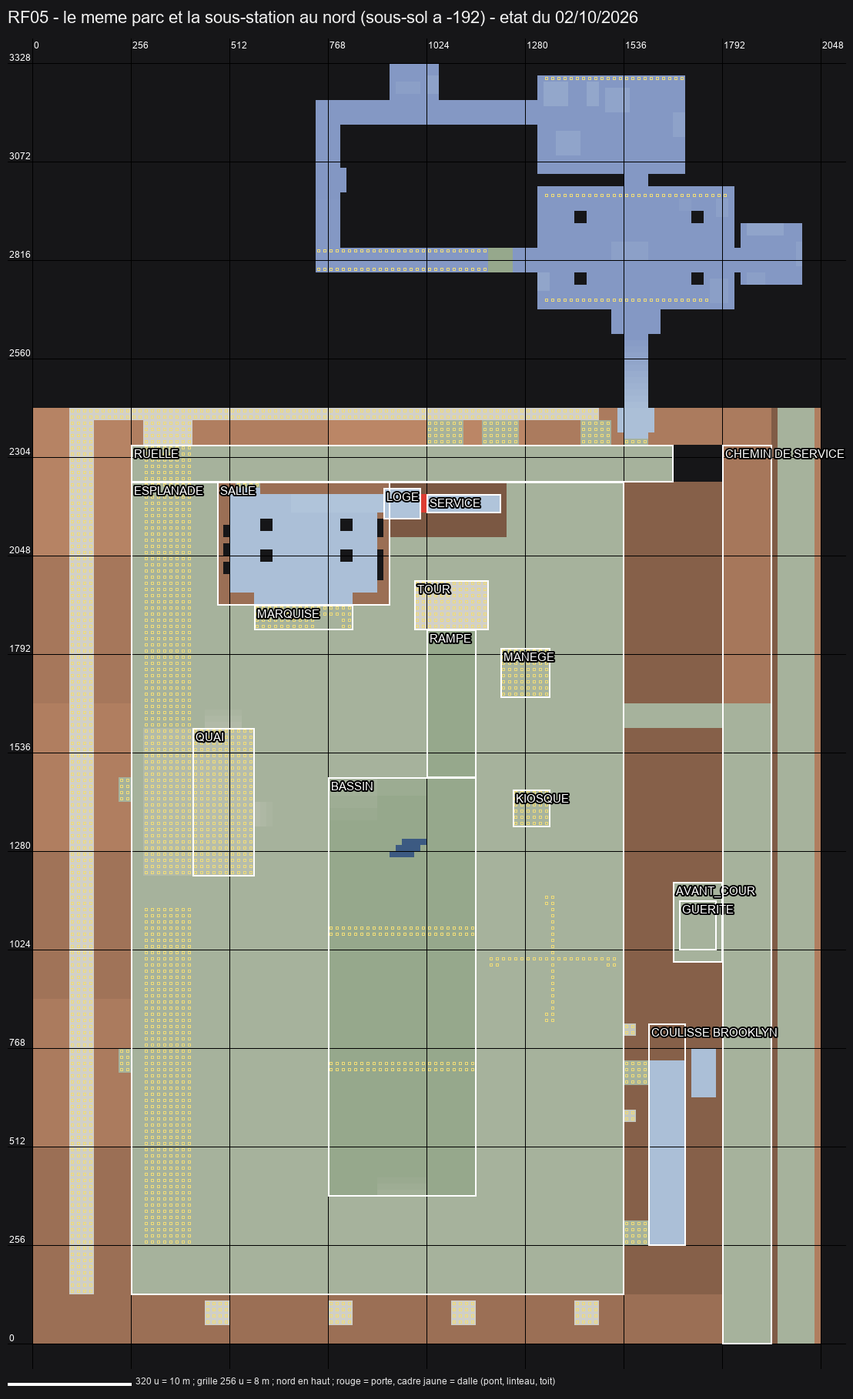
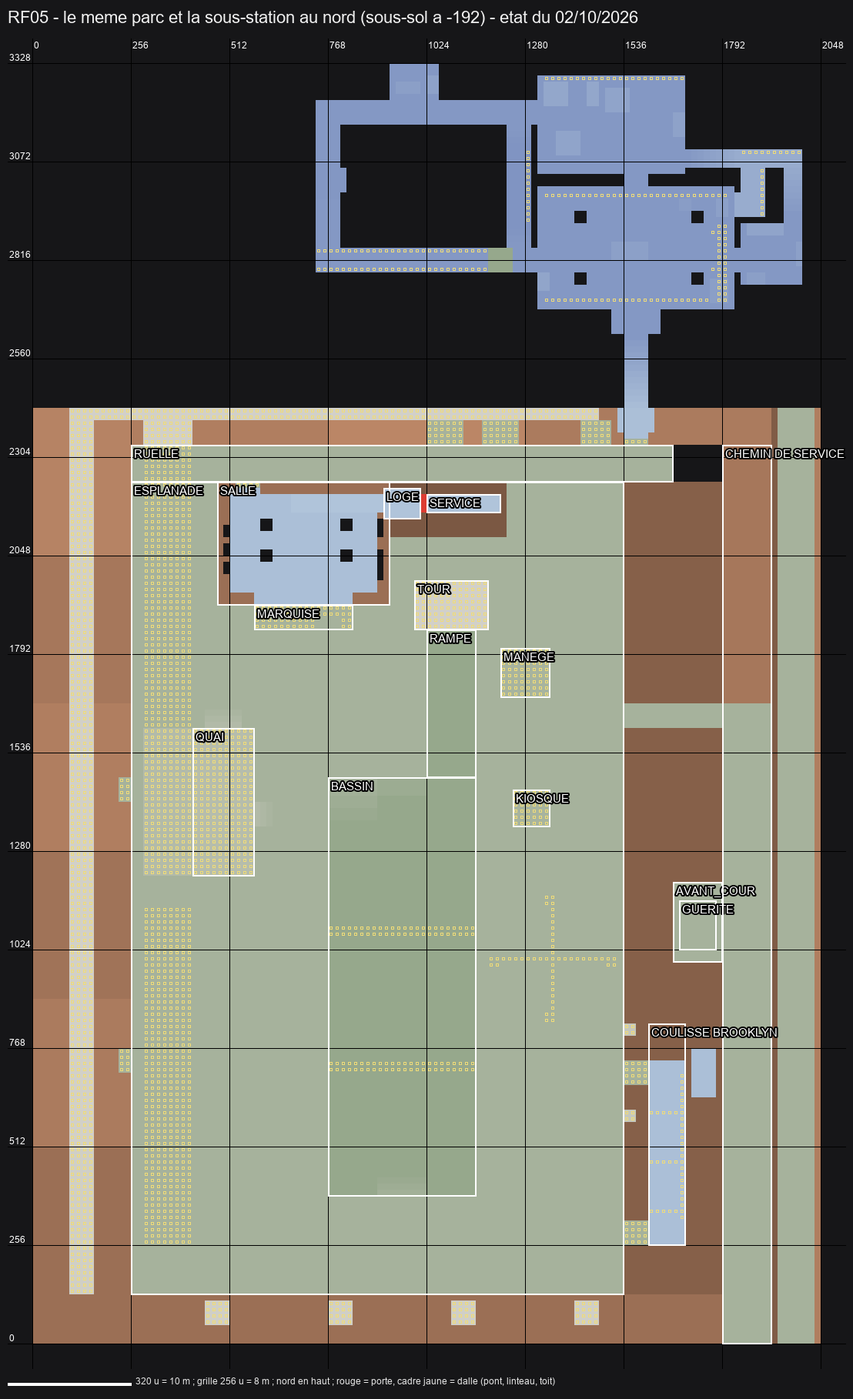
For Astra: plans and sections regenerated with the volumes of 02/10, their table, piers and dials now delivered; the novel's 143 elements reconciled with the build
- PLANS: RF04/RF05/RF06 plans, seven new sections (feeders' gallery, bay, workshop stair, culvert, valve chamber,
  walkways, side loop), the table of added volumes and what each needs drawn, the engine's line-portal limit
- CONTRAT_DECORS_ET_PORTES: dials V03 and the eight piers of the review session in place; the puddle sprites
- ELEMENTS_ROMAN_RAPPROCHEMENT: the pack's matrix against the build (19 present, 31 incomplete, 93 absent, the
  latter outside the maps produced), with a proposal for each P1 gap in RF01-RF07

Changed region(s): [[0.7978, 0.0924, 0.9513, 0.1848], [0.583, 0.0924, 0.6444, 0.1848], [0.4603, 0.5853, 0.491, 0.6161]]

diff --git a/docs/production/handoff/RF2_20261002/ELEMENTS_ROMAN_RAPPROCHEMENT.md b/docs/production/handoff/RF2_20261002/ELEMENTS_ROMAN_RAPPROCHEMENT.md
@@ -1,0 +1,109 @@
+# Éléments du roman — rapprochement avec le build courant (02/10/2026)
+
+Matrice rapprochée : `ELEMENTS_ROMAN.csv` du pack `RF2_ASTRA_ART_MASSIF_20261002` (143 lignes). Build lu : branche `prod/rf2-campaign`, commit `f43d3fce` (même contenu de jeu que `61d9b431` : les deux commits suivants n'ajoutent que des documents et des scripts de production) : sources des cartes (`scripts/mapkit/*.py`), cartes construites (`src/maps/RF0x.wad`), textes (`src/LANGUAGE`), scènes (`src/zscript/rf/*.zs`). Détail ligne par ligne : `ELEMENTS_ROMAN_RAPPROCHEMENT.csv`, dans ce dossier.
+
+**Lecture seule : rien n'a été lancé dans le moteur.** Les statuts viennent des sources et du contenu des cartes construites, pas d'une traversée. Une ressource dessinée par l'intégrateur en attendant celle d'Astra ou de Codex compte comme `INCOMPLET` (la scène fonctionne, l'art reste à livrer).
+
+**Numéros de ligne : ceux du commit `f43d3fce`** (161 références contrôlées contre ce commit). L'arbre de travail bougeait pendant la lecture (flaques passées en images à plat, pochoir 404 déplacé : `luna_park.py`, `rf05.py`, `rf06.py`, `luna.zs`, `materials_rf04.py`, `MAPINFO`, non commités) ; ces modifications décalent quelques lignes de ces six fichiers et ne changent aucun statut.
+
+## Comptes
+
+| Périmètre | PRESENT | INCOMPLET | ABSENT | Total |
+|---|---:|---:|---:|---:|
+| **Les 143 lignes** | **19** | **31** | **93** | **143** |
+| RF01 | 0 | 5 | 2 | 7 |
+| RF02 | 8 | 5 | 0 | 13 |
+| RF04 | 6 | 4 | 0 | 10 |
+| RF05 | 3 | 10 | 0 | 13 |
+| RF06 | 2 | 3 | 0 | 5 |
+| Jerma (RF07-RF12) | 0 | 4 | 16 | 20 |
+| Lieux ultérieurs | 0 | 0 | 75 | 75 |
+| dont priorité P1 (91 lignes) | 16 | 24 | 51 | 91 |
+| dont cartes produites, RF01 à RF07 (52 lignes) | 19 | 31 | 2 | 52 |
+
+Rattachement des lignes à un lieu : une ligne à plusieurs lieux (`RF01/RF04`, `RF02/RF05`…) est comptée au premier ; « Jerma » regroupe EL049 à EL068, dont seules EL049 à EL052 tombent dans RF07 (roman P00612 à P00627), les seize autres dans RF08 à RF12, non produites ; « lieux ultérieurs » = EL069 à EL143, y compris les lignes documentaires sur le Jerma et `RF01/fin` (EL143, dernier état de Sainte-Anne, après RF23).
+
+## P1 incomplets ou absents dans les cartes produites, avec la proposition
+
+24 lignes. Les propositions respectent les décisions en vigueur : RF06 et le Jerma sans combat ; Elvis, le gardien, la jeune femme et les couples jamais des cibles ; aucune musique nouvelle ; rien d'expliqué que le roman laisse ouvert. Pour RF01 (carte acceptée), elles reprennent le lot borné de `CANON_FIDELITE.md` §7 et attendent un accord.
+
+### RF01
+
+- **EL002 — Montre arrêtée et changement 6h20/6h06** (INCOMPLET, lot V01). Manque : La montre comme objet : remise à Sainte-Anne (RF01), portée, montrée arrêtée à 6 h 20 puis à 6 h 06 au pointage ; aucun cadran, aucune icône de HUD avant RF07.
+  Proposition : RF01 : la montre arrêtée posée avec les autres effets rendus sur la table de la chambre de départ (scripts/mapkit/rf01.py:259), à ramasser avant de sortir (lot borné déjà proposé en CANON_FIDELITE §7, à faire après accord puisque RF01 est acceptée). RF04 : au moment du pointage, afficher le cadran à l'écran comme la montre de RF07 (jerma.zs:241) : aiguilles à 6 h 20, puis à 6 h 06 quand le carton sort de l'horloge.
+- **EL006 — Flacon brun 117** (INCOMPLET, lot J02). Manque : Le flacon brun à l'étiquette 117 comme objet : remis dans RF01, porté, bu (RF02), donné à la jeune femme puis rendu (RF05) ; aucune image, aucun objet d'inventaire.
+  Proposition : RF01 : le flacon brun (étiquette blanche, 117 à l'encre violette) et le paquet de biscuits posés sur le poste des infirmières du pavillon est (scripts/mapkit/rf01.py:379), à ramasser, avec la ligne « Prenez ça. Pas tout d'un coup. » ; après accord (RF01 acceptée). RF05 : pendant RF_RF05_WOMAN_7, montrer le flacon à l'écran, moins plein quand elle le rend.
+- **EL007 — Carton017 à lettres bleues** (INCOMPLET, lot J02). Manque : La remise à Sainte-Anne (RF01 : rien), le carton montré à l'infirmière, porté dans RF02 (il n'est donné qu'à l'entrée de RF04) ; les états du Jerma (humide, suie, tache de graisse en cercle barré, tombé du matelas) relèvent de RF08, non produite.
+  Proposition : RF01 : le carton LUNA PARK - PERSONNEL TECHNIQUE, 017, parmi les effets rendus sur la table de la chambre de départ (scripts/mapkit/rf01.py:259), ramassé (donne RFTimeCard) ; icône du HUD gardée de RF01 à RF04 (lever la condition « RF04 » de hud.zs:336) ; après accord (RF01 acceptée). Rien à ajouter dans RF07 : la chute du carton est dans RF08.
+
+### RF02
+
+- **EL013 — Enveloppe de Cochin** (INCOMPLET, lot F01). Manque : RF02 : la scène (« Monsieur Ardent, vos résultats. » … « Gardez-les. » … « Quand vous saurez, revenez. »), l'adresse à moitié masquée par le pouce. RF05 : l'enveloppe définitive (fenêtre, typographie, adresse lisible) ; la main qui la tient manque puisque la jeune femme n'a pas de figure.
+  Proposition : RF02 : une ligne de marche sur le boulevard de Port-Royal à hauteur du portail (x 1216) lance l'échange en sous-titres comme les autres scènes de RFParis ; la femme reste devant le portail, l'enveloppe ne se ramasse pas ; la vague E3 (rf02.py:384-385) ne se réveille qu'après la dernière réplique. RF05 : remplacer R5ENA0 par l'enveloppe d'Astra et la rendre lisible (LIRE) sur l'établi : nom derrière la fenêtre, Waukegan, Illinois, 117 ; elle reste non ouverte.
+- **EL014 — Amiga au reflet puis Ducretet** (INCOMPLET, lot R01). Manque : Le maître d'Astra de l'Amiga 1200 pour le reflet ; le poste Ducretet couvert de poussière qui « lui renvoie son visage » à l'approche (la vitrine finale montre des postes génériques, sans Ducretet ni reflet).
+  Proposition : Garder le déclenchement actuel. Remplacer RF2_AMIG par l'image composée depuis le maître d'Astra, et ajouter à l'état final de la vitrine un Ducretet poussiéreux à l'emplacement exact où le boîtier gris apparaissait, pour que le joueur voie l'un céder à l'autre en s'approchant.
+
+### RF04
+
+- **EL021 — Gardien avec registre puis guérite vide** (INCOMPLET, lot F01). Manque : La figure définitive du gardien (casquette, moustache blanche, registre sur les genoux, doigt noir de graisse) ; le registre resté sur la chaise, ouvert à une page blanche, n'existe que dans le texte.
+  Proposition : Même place et même scène. Remplacer R4G1 par la figure d'Astra (assis, parle, tend la main, désigne le crochet). Après sa disparition, laisser dans la guérite, visible par la vitre depuis le chemin, la chaise et le registre ouvert sur une page blanche (objet fixe, sans interaction). Le gardien n'est jamais une cible.
+- **EL028 — Tourniquet 617/618** (INCOMPLET, lot A03). Manque : RF05 : scripts/mapkit/rf05.py ne repose ni les tourniquets ni le compteur (aucun RF4_TOUR ni RF4_C618 dans src/maps/RF05.wad) ; le joueur qui sort de la salle de danse par le vestibule ne trouve plus rien à leur place. Les montants (RF4_TOUR) sont un substitut de l'intégrateur.
+  Proposition : RF05 : reposer sous la marquise les trois tourniquets de RF04 (mêmes positions que rf04.py:273-278), la barre levée et le compteur resté à 618 (RF4_C618), sans interaction : le joueur qui repasse voit le chiffre qu'il a laissé.
+- **EL030 — Jukebox muet THE SKY IS EMPTY** (INCOMPLET, lot A03). Manque : L'objet définitif dans ses états (sous la bâche, découvert : vitre fendue, touches jaunies, liste effacée, étiquette lisible).
+  Proposition : Même place, même suite de gestes (retirer la bâche, lire, appuyer : rien, trois coups). Remplacer R4JB par le juke-box d'Astra en deux états, plus un troisième, allumé, pour RF05 (luna_machines.zs:30-34) ; aucune musique nouvelle, le sous-titre reste.
+
+### RF05
+
+- **EL031 — Escalier et ampoule grillagée** (INCOMPLET, lot A02). Manque : L'ampoule et sa grille n'existent pas comme objet : la lumière est un point lumineux sans source visible ; mains courantes et conduites de cuivre ne sont qu'une image plate provisoire.
+  Proposition : Au palier (rf05.py:173-174), poser sur le mur une applique visible : ampoule nue derrière une grille de fil, allumée, à l'endroit du point lumineux actuel ; remplacer RF5_ESCA par les surfaces d'Astra. Le joueur descend, rien à actionner.
+- **EL035 — Levier et ATTENTE gravé** (INCOMPLET, lot A02). Manque : Le levier n'est jamais vu sur ATTENTE : à l'arrivée il est dessiné sur MARCHE, alors que le roman le trouve à la troisième position (« Le levier se trouvait là ») ; pas de troisième image ; bakélite et gravure provisoires.
+  Proposition : Même panneau. Trois images : à l'arrivée, moteur battant, la manette à mi-course sur ATTENTE ; ARRÊT après le premier usage ; MARCHE à la remise en route. Remplacer RF5_LEVM/RF5_LEVA par le levier d'Astra ; textes inchangés.
+- **EL036 — Jeune femme pieds nus et enveloppe** (INCOMPLET, lot F01). Manque : La jeune femme elle-même : sa descente dans le cercle de l'ampoule, pieds nus et noirs de poussière, le talon blessé, assise sur la caisse, la main sur le mur ; la scène de soin n'est pas visible.
+  Proposition : Sous-station, après ARRÊT : la figure d'Astra (la même personne que F02-07 de RF02, sans valise, pieds nus) apparaît en haut de l'escalier dans le cercle de l'ampoule, descend, s'assoit sur la caisse (rf05.py:202), examine son talon, remonte et pose la main sur le mur du palier. Figure sans collision, jamais une cible ; la vague des galeries reste retenue jusqu'à son départ (déjà le cas, luna_machines.zs:354-361).
+- **EL038 — Graisse, clé17 et fibre synthétique** (INCOMPLET, lot A02). Manque : Aucun de ces objets n'est visible : ni chiffons, burette et clé de 17 dans le tiroir, ni graisse durcie, ni fragment de fibre rouge au fond du palier ; les pièces portées n'apparaissent pas dans le HUD.
+  Proposition : Atelier : un tiroir ouvert montrant chiffons, burette et clé plate de 17 (objet fixe, vidé après usage). Moteur : au nettoyage, le capot du palier ouvert et, dans la graisse noire, le fragment rouge à regarder de près (LIRE) avant de l'ôter. L'action reste la même : trouver, revenir, nettoyer.
+- **EL039 — Toile et agrafes cuivre sur courroie** (INCOMPLET, lot A02). Manque : La courroie renforcée n'a pas d'image propre : la roue et sa courroie sont les mêmes avant et après (RF5_ROU0/ROU1, RF5_ROUS à l'arrêt, avec la seule réparation ancienne) ; ni la fente, ni la bande de toile agrafée ne se voient ; la toile et les agrafes ne sont pas visibles dans la caisse.
+  Proposition : Galerie nord : la caisse ouverte avec la bande de toile et les agrafes de cuivre visibles. Sous-station : après la réparation, la roue passe à une variante de RF5_ROU (arrêtée et en marche) où la courroie porte la bande de toile et ses agrafes de cuivre ; à l'arrêt avant réparation, une variante où la fente à mi-largeur se voit.
+- **EL040 — Fusible JERMA daté 22.12.2022** (INCOMPLET, lot A02). Manque : Le fusible définitif : la date 22.12.2022 ne se lit que dans le texte, pas sur la porcelaine ; la boîte de rechange n'est pas visible ; tableau provisoire.
+  Proposition : Salle des transformateurs : une boîte de rechange visible où un seul cylindre de porcelaine a la bonne taille ; à l'usage, montrer le fusible de près avec 22.12.2022 imprimé. Tableau : remplacer RF5_FUS0/FUS1 par celui d'Astra, le fusible daté visible une fois inséré dans la ligne JERMA.
+- **EL041 — Lampes retardées et enseignes fragmentées** (INCOMPLET, lot A03). Manque : Les ampoules sont des points lumineux sans globe visible ; une seule enseigne, fixe une fois allumée : les fragments LUNA. PARK. NIAG. BROOK. qui clignotent par morceaux ne sont que dans le sous-titre.
+  Proposition : Parc rallumé : aux quatorze points (rf05.py:299-303), des globes fendus visibles, éteints puis allumés avec leur retard. Quatre enseignes en ampoules qui s'allument par morceaux, chacune à sa place : LUNA et PARK sur les rochers de la ruelle, NIAG au-dessus de la rampe du bassin, BROOK sur la façade du pont ; jamais le nom entier.
+- **EL042 — Train vide de trois voitures** (INCOMPLET, lot A03). Manque : Le train définitif (trois wagonnets, roues, inertie) : aujourd'hui une image plate tournée vers le joueur ; il ne parcourt que la rampe de levage.
+  Proposition : Même trajet au-dessus de la ruelle. Remplacer le panneau R5TRA0 par le train d'Astra (trois voitures rondes à deux places, vides), vu de côté et de dessous ; garder le claquement du frein à chaque passage ; le joueur reste à distance, rien à actionner.
+- **EL043 — Couples uniquement dans les miroirs** (INCOMPLET, lot F01). Manque : Les couples eux-mêmes dans les miroirs : costumes de plusieurs époques, le couple à l'écart près du juke-box, visages hors champ, la femme qui retire une chaussure.
+  Proposition : Salle de danse de RF05 : des couples visibles seulement dans les miroirs (même procédé que le reflet de Viktor, figures.zs:65), placés sur le parquet derrière le joueur pendant la scène d'entrée ; un couple à l'écart près du juke-box, cadré bas, visages hors champ, elle retire une chaussure. Rien dans la salle si le joueur se retourne ; aucune collision, jamais des cibles, aucune musique nouvelle.
+
+### RF06
+
+- **EL045 — 117/404/017 barrés** (INCOMPLET, lot A04). Manque : Les pochoirs définitifs, avec des états distincts (peint, puis barré) et une peinture à l'échelle du mur.
+  Proposition : Mêmes portes, même ordre. Remplacer les trois images par les pochoirs d'Astra, la barre visiblement posée après le chiffre et d'une autre main ; observation de passage, rien à actionner.
+- **EL046 — Langues et ERREUR Ø en variantes** (INCOMPLET, lot A04). Manque : Les ERREUR Ø définitifs ; des graffitis où l'on reconnaisse plusieurs langues (anglais, français, maltais, italien, cyrillique) ; le texte src/LANGUAGE:288 RF_RF06_ERREUR n'est jamais affiché : aucune ligne de la carte ne porte la scène 5 (corridor.zs:101, absent de src/maps/RF06.wad).
+  Proposition : Remplacer RF6_ER1 à RF6_ER5 par les cinq variantes d'Astra aux mêmes places. Dans la salle des peaux, poser sous la peinture soulevée des signatures, dates et initiales en cinq écritures, sans phrase inventée. Ajouter la ligne de marche de la scène 5 au premier ERREUR Ø (rf06.py:182) pour que le texte existant s'affiche ; rien n'est expliqué.
+- **EL047 — Ampoules devant et derrière** (INCOMPLET, lot A04). Manque : L'ampoule nue elle-même (verre, culot, fil) : les lampes sont des points lumineux sans objet visible, on voit la lumière s'allumer et s'éteindre mais pas sa source.
+  Proposition : À chaque point lumineux (rf06.py:193-194), pendre sous le plafond une ampoule nue visible à deux états, allumée et éteinte, commutée par RFCorridor.SetLamp avec sa lumière ; le joueur n'a rien à faire, il voit les ampoules s'éteindre derrière lui.
+
+### RF07
+
+- **EL049 — Terrasse et mer métallique** (INCOMPLET, lot J01). Manque : Les surfaces et objets définitifs : façade maritime, balcons sans vitres, baie cassée, gravats, palmiers, mer « dure, métallique ».
+  Proposition : Garder le plan de la terrasse. Remplacer les huit textures RF7_* par celles d'Astra et les sept palmiers (rf07.py:107-109) par de vrais palmiers pliés par le vent ; la mer garde son horizon (rf07.py:104-105). Le joueur arrive, regarde, rejoint Elvis : sans combat.
+- **EL050 — Elvis attend, guide et aide** (INCOMPLET, lot J02). Manque : La figure définitive d'Elvis (références du propriétaire) et ses gestes : attendre, se retourner, tendre la bouteille, porter. L'aide au-delà du sommier (matelas, photo, eau) est dans RF08-RF09, non produites.
+  Proposition : Même parcours (rf07.py:169-171). Remplacer R7EV par la figure d'Astra : attente près de la baie, marche, tête tournée vers Viktor quand il attend, bras tendu pour la bouteille, prise du sommier. Jamais une cible, aucune collision.
+- **EL051 — Chambre remplaçant le couloir** (INCOMPLET, lot J01). Manque : La chambre définitive : moquette humide, sommier renversé comme objet, un ERREUR Ø propre à ce mur, noir et récent.
+  Proposition : Même pièce, même déclenchement au retournement. Habiller avec les surfaces d'Astra, remplacer le bloc par le sommier renversé, et peindre sur la cloison un ERREUR Ø noir, frais, à hauteur d'épaule, distinct des cinq du couloir. Rien ne dit où est passé le couloir.
+- **EL052 — Sommier déplacé ensemble** (INCOMPLET, lot J02). Manque : Le sommier définitif (métal rouillé, poids) et l'effort à deux : Elvis ne fait aucun geste, l'objet glisse de 40 u d'un coup.
+  Proposition : Même palier. Remplacer R7SB par le sommier d'Astra en deux états (en travers, relevé contre le mur) ; à l'usage, Elvis prend un côté (pose de portage) pendant que le joueur tient l'autre, le sommier pivote, puis « C'est là. ».
+
+Hors de cette liste : les seize lignes du Jerma au-delà de RF07 (EL053 à EL068, dont 13 en P1) sont absentes parce que RF08 à RF12 ne sont pas produites ; leur implantation est déjà découpée dans `docs/production/maps/RF07_RF12_DECOUPAGE.md`.
+
+## Doutes non levés
+
+- **Reflets de Viktor (EL012, EL029), comptés PRESENT.** La matrice les donne « défaut signalé le 01/10 ». Le build contient les sprites de Codex importés ce jour-là (R2F8 V02, R4V2/R4V3 V01), au visage du maître du HUD. Le verdict du propriétaire sur ces images n'est écrit nulle part, et le lot V01 est redemandé à Astra : si ces images ne valent pas « maître actuel », les deux lignes passent à INCOMPLET.
+- **Entrée du Luna Park (EL020), comptée PRESENT.** L'enseigne au U pendant et DÉFINITIVE barré sont dans RF02. RF04 ne montre que le revers des portes, d'un autre dessin (piliers à dômes de Codex contre palissade et grille dans RF02) : l'« entrée commune aux deux cartes » demandée par la matrice n'est pas faite.
+- **Tourniquet (EL028), compté INCOMPLET** alors que la matrice le dit « présent rapporté » : l'action de RF04 est complète, mais RF05 ne repose pas les tourniquets. Si la ligne ne vise que RF04, elle est PRESENT.
+- **Lumières sans source visible (EL031, EL041, EL047), comptées INCOMPLET.** Le comportement du roman est là (cercle de l'ampoule, allumage avec retard, ampoules devant et derrière, y compris après une sauvegarde), mais ce sont des points lumineux sans ampoule dessinée. À juger en jeu : si la lumière seule suffit, ces lignes remontent.
+- **Couloir (EL044, EL048), comptés PRESENT** malgré des conduites faites d'un volume simple et des voix en sous-titres sans son ; l'ouverture sur le jour (RF6_JOUR) est provisoire.
+- **Texte orphelin de RF06.** `RF_RF06_ERREUR` (src/LANGUAGE:288) n'est déclenché par aucune ligne de la carte (scène 5 absente de `scripts/mapkit/rf06.py` et de `src/maps/RF06.wad`) : oubli ou choix, non tranché.
+- **Piscine et matelas vus depuis RF07 (EL062, EL053), comptés ABSENT.** RF07 montre une fosse de béton nu depuis la terrasse et une lueur dans la pièce de sortie ; ni mosaïque, ni slogans, ni matelas.
+- **Origine de quelques images.** Les tables de contrat du 02/10 notent « Opus ou référence antérieure » pour la pointeuse et les compteurs 617/618 ; `scripts/mapkit/materials_rf04.py:39-41` les donne livrés par Astra (tranche 01 du 30/09) : je les ai tenus pour livrés. Les images procédurales de RF02 ne sont pas marquées provisoires (sauf RF2_AMIG) et le pack dit RF02 jugée bonne par le propriétaire le 01/10 (`00_LIRE_DABORD.md`) : leurs éléments sont comptés PRESENT.
+- **Objets portés invisibles.** Ticket, fiche de lecteur, enveloppe, chiffons, toile, fusible et bouteille d'eau sont des objets d'inventaire sans image ni ligne de HUD (seuls les clefs et le carton s'affichent, `src/zscript/rf/hud.zs:316-340`). Je n'en ai pas fait un motif d'INCOMPLET pour les lignes de RF02 ; il pèse sur EL038 à EL040.
+- **EL143 (`RF01/fin`)** est rangée dans les lieux ultérieurs et laissée sans proposition : c'est l'état final de Sainte-Anne, à implanter avec la fin du jeu, pas dans le premier chapitre.

diff --git a/docs/production/handoff/RF2_20261002/DEMANDES_ASTRA/PLANS/LISEZ.md b/docs/production/handoff/RF2_20261002/DEMANDES_ASTRA/PLANS/LISEZ.md
@@ -15,7 +15,9 @@ choisies pour le jeu.
 | `RF04_coupe_C_grand_huit.png` | le long des tréteaux : voie, quai (+96), rampe de levage |
 | `RF04_coupe_D_salle.png` | la salle de danse et son aile |
 | `RF05_coupe_E_escalier_sous_station.png`, `RF05_coupe_F_sous_sol.png` | la descente depuis la ruelle ; galeries, sous-station, atelier |
+| `RF05_coupe_G_galerie_des_departs.png`, `H_baie`, `I_atelier`, `J_caniveau` | les deux boucles de maintenance ajoutées le 02/10 : l'escalier et la galerie des départs (+96), sa baie sur la roue, sa redescente dans l'atelier ; le caniveau entre les deux galeries |
 | `RF06_plan.png` | le couloir : chambres, salle des peaux, descente, carrefour et « autre aile », deux virages, le jour |
+| `RF06_coupe_K_chambre_des_vannes.png`, `L_passerelles`, `M_boucle` | les volumes ajoutés le 02/10 : la chambre des vannes (passerelles et fosse), la boucle d'inspection de la salle des peaux |
 | `RF04_RF05_DIMENSIONS.md` | emprise, sol et hauteur libre de chaque zone |
 
 32 u = 1 m. Le nord est en haut. L'origine (0, 0) est l'angle sud-ouest du parc.
@@ -42,6 +44,33 @@ quai, mât, rampe et tour, marquise, salle, ruelle, guérite, crête ouest, port
 `dist\candidates\RF2_CUMUL_20261001_1605\preuves\vues_RF04_pilote\`, `vues_RF05\`, `vues_RF06\` ; état après la passe des
 portes : `dist\candidates\RF2_PORTES_20261002_1018\preuves\portes\`. Les cadrages sont listés avec leurs coordonnées dans
 `docs\production\handoff\RF2_20261001\vues\*.json` : je peux reprendre exactement les mêmes sur une nouvelle version.
+
+## Volumes ajoutés le 02/10 (adaptations déclarées : le roman donne les lieux, pas leur plan)
+
+Tous sont habillés de matières existantes ; ce sont eux qui attendent en priorité des coupes et des modules d'Astra.
+
+| Carte | Volume | Dimensions | Fonction | Ce qu'il faudrait dessiner |
+|---|---|---|---|---|
+| RF05 | Voûte de la sous-station (proposition de la session de revue) | berceau de 512 u de portée, clef à +192 u au-dessus du sol, trois nervures | remplace le plafond en gradins | intrados de brique, nervures, clefs |
+| RF05 | Galerie des départs | escalier de 8 marches (16 × 12 u) depuis les transformateurs, galerie à +96 u (48 à 64 u de large, 80 u sous plafond), baie de 64 × 64 u dans le mur est de la nef, escalier de 8 marches vers l'atelier | boucle électrique : contrechamp haut du moteur et de la roue, retour par l'établi | garde-corps de fer simple (aujourd'hui la rambarde parisienne `RF2_RAMB`, à remplacer), isolateurs et départs de câbles, limon et marches de bois |
+| RF05 | Caniveau de la conduite des pompes | 64 × 320 u, trois marches de 8 u vers 24 u d'eau, 88 u sous plafond | boucle hydraulique courte entre la galerie ouest et la galerie nord | conduite et colliers (aujourd'hui un volume carré), suintements, ligne d'eau |
+| RF05 | Chemin de câbles de la nef (session de revue) | tablette à +104 u sur consoles le long du mur est | réseau lisible depuis les tableaux | consoles, câbles |
+| RF04/RF05 | Cadres de la coulisse de Brooklyn (session de revue) | trois portiques de bois, 80 u de passage, 88 u de haut | charpente de l'envers du décor | assemblages, fixations |
+| RF06 | Retrait de service | 96 × 96 u, 120 u sous plafond, collecteur de 32 × 64 × 72 u | premier élargissement, côté parc | collecteur, vannes, raccords |
+| RF06 | Boucle d'inspection (session de revue) | deux volées de 4 marches de 16 u, galerie basse à −48 u | second niveau sur la peinture soulevée | regard, enduit en coupe |
+| RF06 | Second seuil | passage réduit à 64 u, linteau à 76 u, sur 32 u | autre épaisseur d'enduit | chambranle d'enduit épais |
+| RF06 | Chambre des vannes | passerelle haute (80 × 176 u), six marches de 8 u, passerelle basse (80 × 144 u), fosse de 96 × 384 u à 96 u sous la passerelle basse (144 u sous la haute), deux colonnes montantes, collecteur | retrait technique : la conduite quitte le couloir, descend, remonte, revient | garde-corps, colonnes, collecteur, échelons, eau au fond |
+| RF06 | Nervures du premier virage | quatre nervures de 16 u sur le mur sud | relief que balaie le faisceau | nervure et son pied |
+| RF06 | Fente du dernier tronçon | 32 × 32 u à 36 u du sol, dans le mur est | relation impossible : on y voit la cage d'escalier de « l'autre aile », qui se trouve 1 200 u à l'ouest | encadrement de la fente ; la cage elle-même (marches, garde-corps, ampoule) |
+
+La conduite blanche est maintenant continue : elle longe le couloir des chambres, a un piquage dans le retrait de
+service, quitte la descente pour la chambre des vannes, revient plus bas, passe au-dessus du joueur aux deux virages et
+descend jusqu'au jour. C'est le repère d'échelle demandé par le dossier ; son dessin (colliers, raccords, peinture
+blanche écaillée) revient à Astra.
+
+**Limite du moteur relevée le 02/10** : un portail de ligne ne s'affiche que sans décalage de hauteur (les variantes
+alignées sur le sol ou le plafond restent noires dans UZDoom 5.0.1). La fente montre donc un lieu situé à la même
+altitude qu'elle ; une vue sur la chambre 404, 190 u plus haut, n'est pas possible par ce moyen.
 
 ## Points à arrêter ensemble avant les grandes façades
 

diff --git a/docs/production/handoff/RF2_20261002/DEMANDES_ASTRA/CONTRAT_DECORS_ET_PORTES.md b/docs/production/handoff/RF2_20261002/DEMANDES_ASTRA/CONTRAT_DECORS_ET_PORTES.md
@@ -46,14 +46,24 @@ Un montant de porte montre le matériau du mur ou du métal uni, jamais une imag
   pilastre, 16 à 32 u de large sur 448 u), répétable en hauteur d'étage, pour remplacer cette pièce.
 - **Foraines** (`RF4_FAC1`–`3`, une travée de 128 × 256 u) : posées par travées entières ; sur un mur plus bas (160,
   192 u), toute la composition est réduite à la hauteur du mur ; le reste du mur est un trumeau fait du poteau d'angle
-  répété. **Demandes** : un trumeau forain (16 à 64 u de large, 256 u de haut, répétable en largeur) par façade ; des
-  façades basses dessinées pour 192 u et 160 u de haut si tu préfères cela à la réduction.
+  répété. Depuis le 02/10, huit trumeaux dessinés par la session de revue remplacent ce poteau répété aux huit
+  tailles en jeu (16 × 128, 16 × 192 ×2, 16 × 256, 32 × 128, 32 × 144, 32 × 160, 48 × 256 u ; fichiers
+  `patches/doors/RD….png`, 2 px/u, listés dans `scripts/mapkit/door_delivered.json` : le générateur ne les redessine
+  plus). **Demande** : des façades basses dessinées pour 192 u et 160 u de haut si tu préfères cela à la réduction ;
+  un trumeau livré pour une autre taille porte le nom que je te donne pour cette taille.
+
+## Flaques
+
+`sprites/rf04/R4PDA0`, `R4PDB0`, `R4PDC0` (384 × 384 px, 96 × 96 u, RGBA, vues de dessus, posées à plat sur le sol et
+étirées par le jeu à la taille voulue) : provisoires, de mon fait, depuis le 02/10 (l'ancienne flaque était faite de
+carrés de sol de 16 u, son bord était un escalier). La flaque du bassin porte la chaussure d'enfant ; les autres sont
+l'huile et les suintements sous les machines de RF05.
 
 ## RF05 : états que le code affiche (lot A02)
 
 | Élément | Fichiers | Changement d'état |
 |---|---|---|
-| Cadrans | `RF5_CAD0` (avant), `RF5_CAD1` (après MARCHE), 96 × 48 u, masqués, posés sur `RF5_MARB` | à la remise en marche ; **libellés actuellement illisibles** |
+| Cadrans | `RF5_CAD0` (avant), `RF5_CAD1` (après MARCHE), 96 × 48 u, masqués, posés sur `RF5_MARB` | à la remise en marche ; depuis le 02/10 : version V03 de la session de revue, plaques ivoire et libellés lisibles (à préserver, reprendre sur défaut précis) |
 | Coffret NODE 0 | `RF5_NOD0` fermé, `NOD1` ouvert diodes vertes, `NOD2` diodes rouges, 48 × 64 u | scène |
 | Levier | `RF5_LEVM` (MARCHE), `RF5_LEVA` (ARRÊT), 32 × 48 u, provisoires | usage |
 | Fusibles | `RF5_FUS0` (JERMA vide), `RF5_FUS1` (porcelaine en place), 48 × 32 u, provisoires | scène |
